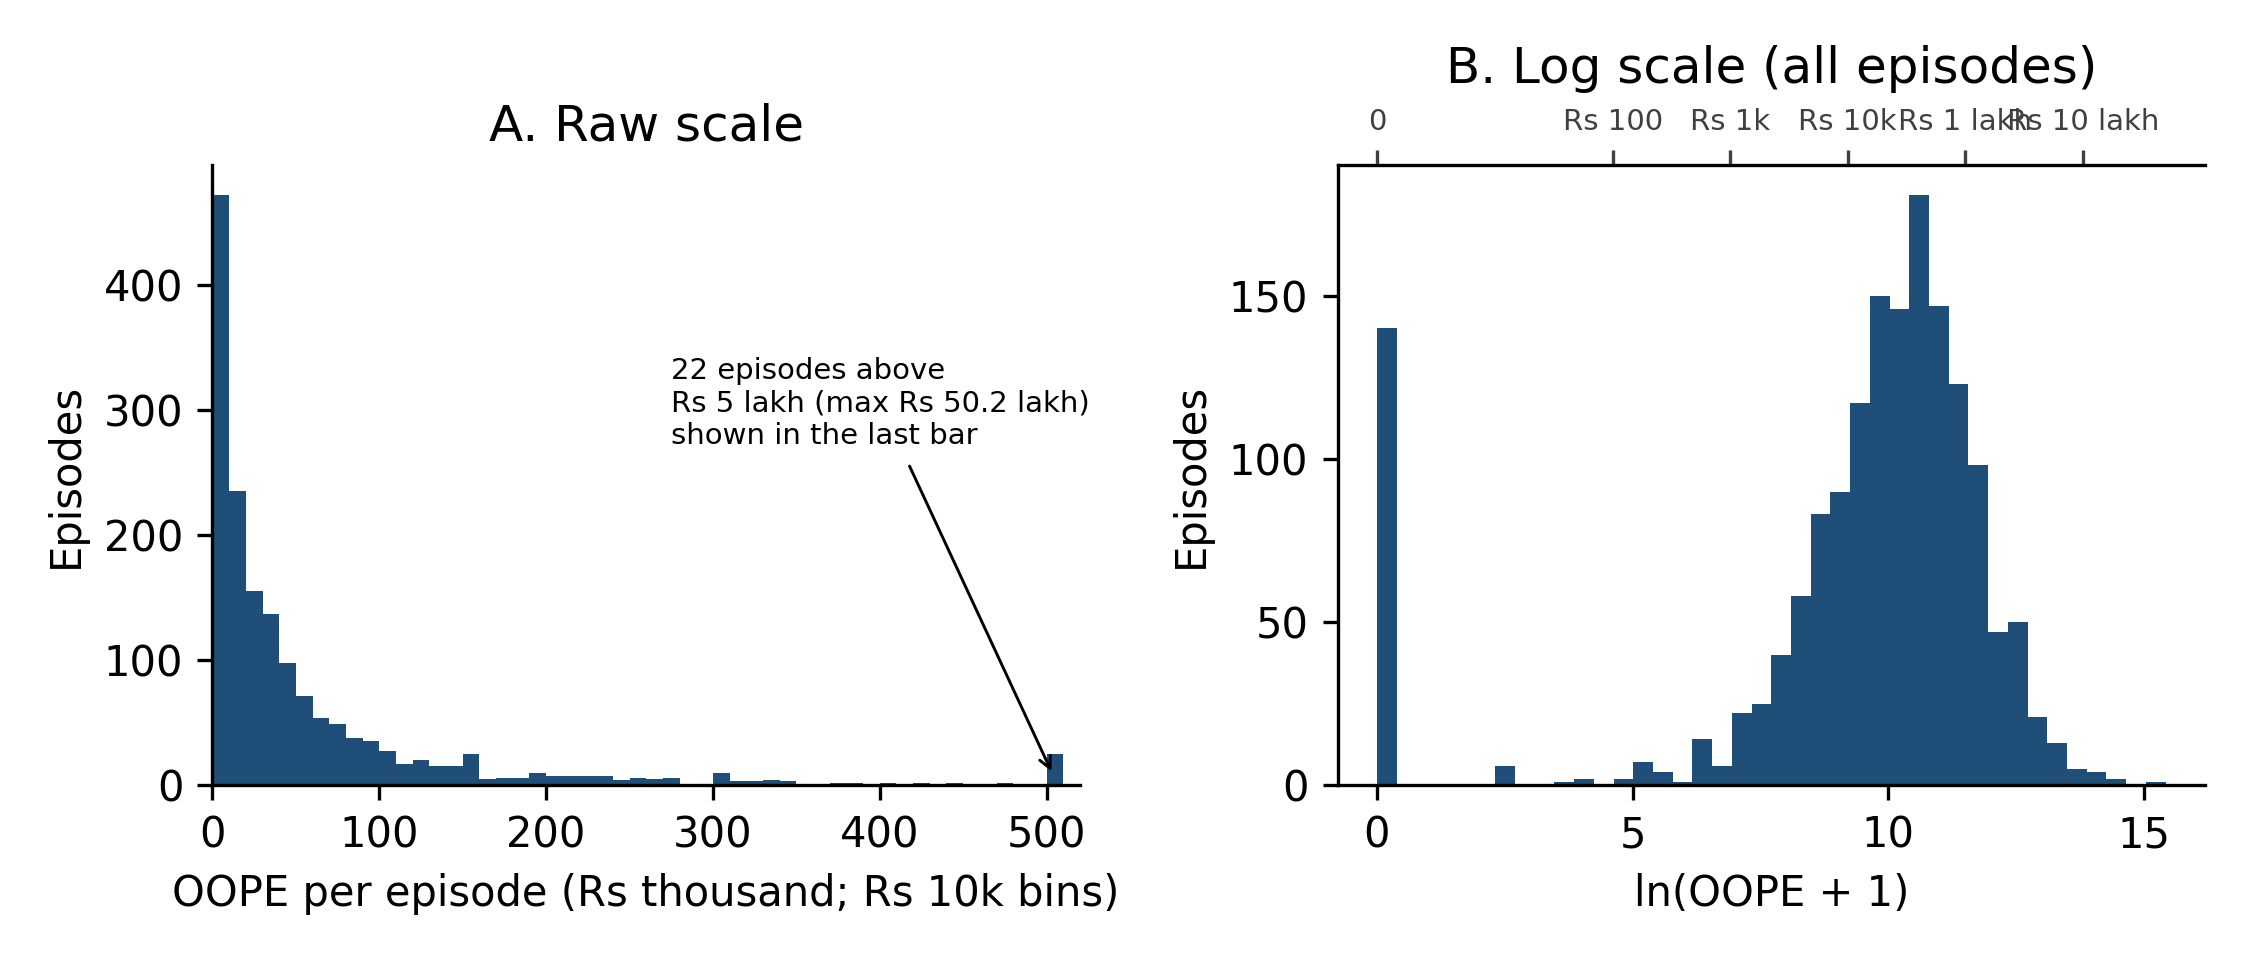
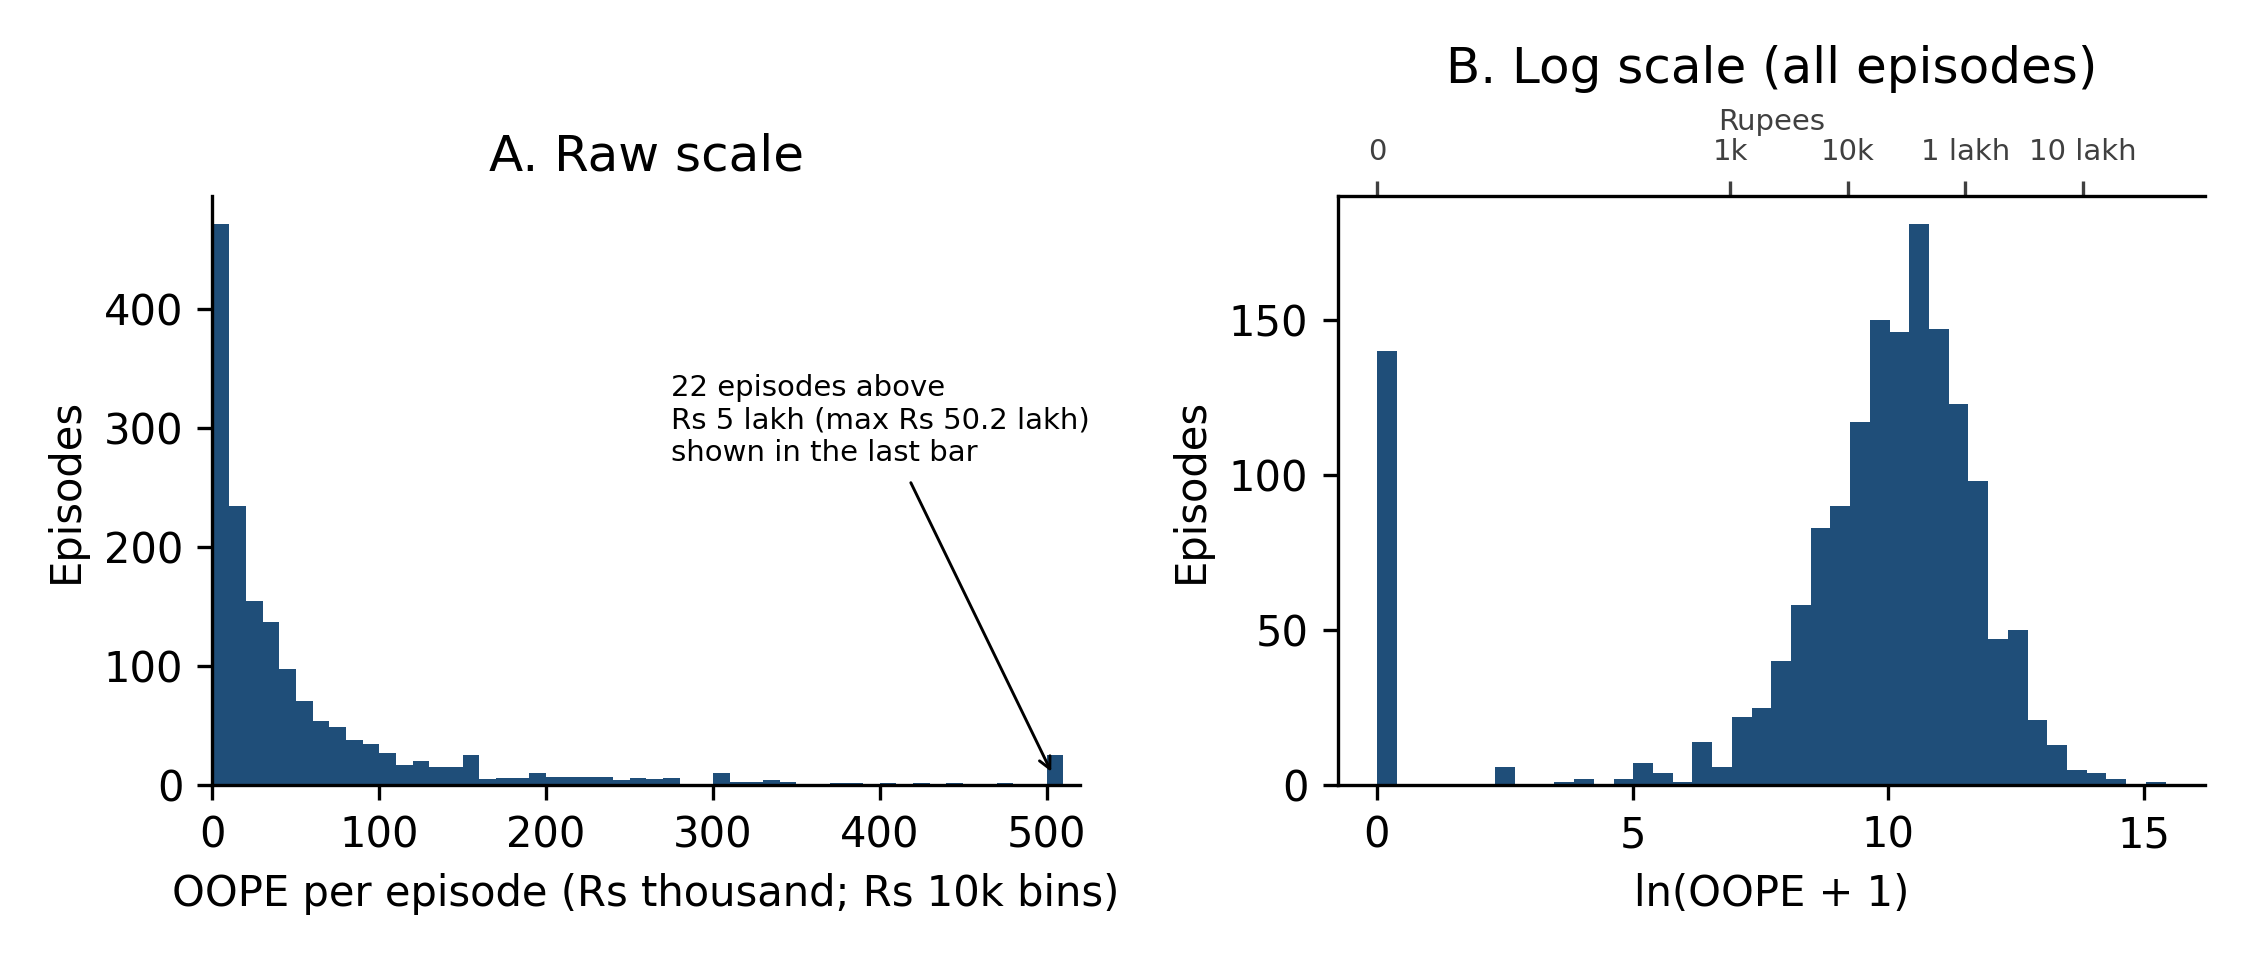
"2025 rerun, unit tests, readable figures, CI fix"

diff --git a/src/06_report_outputs.py b/src/06_report_outputs.py
@@ -27,7 +27,9 @@ RUPEE_TICKS = [(0, "0"), (100, "Rs 100"), (1e3, "Rs 1k"), (1e4, "Rs 10k"), (1e5,
 def rupee_axis(ax, which="x"):
     """Second axis that labels ln(OOPE + 1) values in rupees, so log units are readable."""
     sec = ax.secondary_xaxis("top") if which == "x" else ax.secondary_yaxis("right")
-    pos, lab = [np.log1p(v) for v, _ in RUPEE_TICKS], [l for _, l in RUPEE_TICKS]
+    ticks = RUPEE_TICKS if which == "y" else [(0, "0"), (1e3, "1k"), (1e4, "10k"), (1e5, "1 lakh"), (1e6, "10 lakh")]
+    pos, lab = [np.log1p(v) for v, _ in ticks], [l for _, l in ticks]
+    if which == "x": sec.set_xlabel("Rupees", fontsize=7, color="#404040", labelpad=2)
     (sec.set_xticks if which == "x" else sec.set_yticks)(pos, lab)
     sec.tick_params(labelsize=7, colors="#404040")
     return sec
